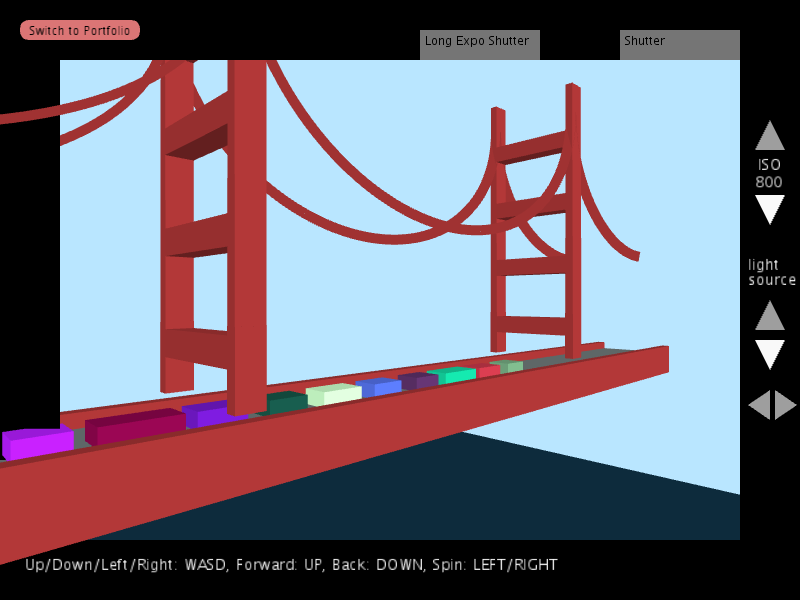
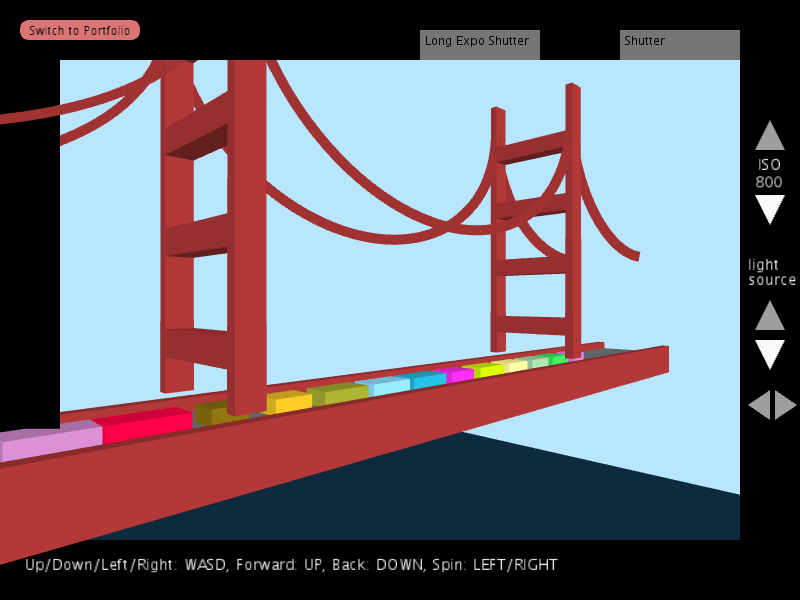
long expo words but only take 1 at a time for now hehe

Changed region(s): [[0.3125, 0.57, 0.7188, 0.69], [0.0, 0.66, 0.3125, 0.78]]

diff --git a/FinalProject/src/portfolio/Portfolio.java b/FinalProject/src/portfolio/Portfolio.java
@@ -25,45 +25,54 @@ public class Portfolio {
 		marker.background(255);
 		
 		marker.tint(255, 126); //opacity for layering
+		
+		//for some reason i need to call this method bc longExposureImages.size doesn't work
+		for (int a = 0; a < Shutter.longExpoSize(); a++) { //goes thru each arraylist in arrayList<arraylist<pimage>>
+			ArrayList<PImage> currLongExpo = longExposureImages.get(a);
+			//find out how many rows down images needs to be at
+			//4 photos per row, go to next row after
+			int f = 60; //viewfinder indent
 
-		//all hard coded for now
-		ArrayList<PImage> longExpoArray0 = longExposureImages.get(0);
-		PImage longExpoImg0 = longExpoArray0.get(0);
-		longExpoImg0 = marker.loadImage(0 + "." + 0 + ".png");
-		marker.tint(255, 126); 
-		PImage longExpoImg1 = longExpoArray0.get(1);
-		longExpoImg1 = marker.loadImage(0 + "." + 1 + ".png");
+			int d = a % 4; //remainder when divided by 4
+			int e = a-d; //c is divisible by 4
+			int yMultiple = (e/4);
+			
+			System.out.println("currLongExpo.size(): " + currLongExpo.size());
 
-		PImage longExpoImg2 = longExpoArray0.get(2);
-		longExpoImg2 = marker.loadImage(0 + "." + 2 + ".png");
+			for (int b = 0; b < currLongExpo.size(); b++) { //goes thru each pimage in the arrayList<pimage>
+				PImage longExpoImg = currLongExpo.get(b);
+				
+				longExpoImg.copy(f, f, marker.width-(2*f), marker.height-(2*f), 0, 0,  marker.width, marker.height);
 
-		//place all 3 photos at same location
-		int diviseFactor = 2;
-		marker.image(longExpoImg0, 20, 50, marker.width/diviseFactor, marker.height/diviseFactor);
-		marker.image(longExpoImg1, 20, 50, marker.width/diviseFactor, marker.height/diviseFactor);
-		marker.image(longExpoImg2, 20, 50, marker.width/diviseFactor, marker.height/diviseFactor);
+				longExpoImg = marker.loadImage(a + "." + b + ".png");
+				marker.image(longExpoImg, 20 + (marker.width/4*((a%4))), (150*yMultiple) + 50, marker.width/5, marker.height/5);
+
+			}
+		}
+
+		marker.tint(255); //undo from long expo
 
 
 		//display images in row in portfolio, commented for now to work on long expo
-//		for (int i = 0; i < images.size(); i++) {
-//
-//			PImage img = images.get(i);
-//			//images name from shutter are in format "index.png"
-//			img = marker.loadImage(i + ".png");
-//
-//			//crop image to remove viewfinder
-//			int a = 60; //viewfinder indent
-//			img.copy(a, a, marker.width-(2*a), marker.height-(2*a), 0, 0,  marker.width, marker.height);
-//
-//
-//			//find out how many rows down images needs to be at
-//			//4 photos per row, go to next row after
-//			int b = i % 4; //remainder when divided by 4
-//			int c = i-b; //c is divisible by 4
-//			int yMultiple = (c/4);
-//
-//			//marker.image(img, 20 + (marker.width/4*i), y, marker.width/5, marker.height/5);
-//			marker.image(img, 20 + (marker.width/4*((i%4))), (150*yMultiple) + 50, marker.width/5, marker.height/5);
-//		}
+		for (int i = 0; i < images.size(); i++) {
+
+			PImage img = images.get(i);
+			//images name from shutter are in format "index.png"
+			img = marker.loadImage(i + ".png");
+
+			//crop image to remove viewfinder
+			int a = 60; //viewfinder indent
+			img.copy(a, a, marker.width-(2*a), marker.height-(2*a), 0, 0,  marker.width, marker.height);
+
+
+			//find out how many rows down images needs to be at
+			//4 photos per row, go to next row after
+			int b = i % 4; //remainder when divided by 4
+			int c = i-b; //c is divisible by 4
+			int yMultiple = (c/4);
+
+			//marker.image(img, 20 + (marker.width/4*i), y, marker.width/5, marker.height/5);
+			marker.image(img, 20 + (marker.width/4*((i%4))), (150*yMultiple) + 50, marker.width/5, marker.height/5);
+		}
 	}
 }

diff --git a/FinalProject/src/worldSetting/Shutter.java b/FinalProject/src/worldSetting/Shutter.java
@@ -22,14 +22,15 @@ public class Shutter {
 
 	//each ArrayList<PImage> is 1 long exposure image
 	private static ArrayList<ArrayList<PImage>> longExposureImages;
-
-
+	private static int longExpoSize;
+	
 	/**
 	 * Initializes the list of images
 	 */
 	public Shutter(PApplet marker) {
 		images = new ArrayList<PImage>();
 		longExposureImages = new ArrayList<ArrayList<PImage>>();
+		longExpoSize = 0;
 	}
 
 	/**
@@ -57,50 +58,29 @@ public class Shutter {
 	public static void longExposureScreenshot(PApplet marker, int outerArrIndex, int innerArrIndex) {
 		try {
 			Robot robot = new Robot();
-			
-			
 			ArrayList<PImage> currLongExpo;
 			
 			//this arraylist already exists
-			if (outerArrIndex < longExposureImages.size()) {
+			if (outerArrIndex < longExpoSize) {
 				currLongExpo = longExposureImages.get(outerArrIndex);
-			} else {
+			} else { //make a new array
 				currLongExpo = new ArrayList<PImage>();
-
+				longExpoSize++;
 			}
-			
-//			int allLongExpoIndex = longExposureImages.size();			
-
+						
 			PImage shot = new PImage(robot.createScreenCapture(new Rectangle(0,0,marker.width, marker.height)));
+			//ex: 3rd photo in second arraylist of pimages (ie 2nd long expo shot) is in format "2.3.png"
 			marker.saveFrame(outerArrIndex + "." + innerArrIndex + ".png");
 			currLongExpo.add(shot);
-
-
-
-			//			long startTime = System.currentTimeMillis();
-			//long elapsedTime = System.currentTimeMillis() - startTime;
-
-			//shutter speed is 1 second
-			//TODO: make shutter speed variablized for user to change
-			//			int index = 0;
-			//			while (System.currentTimeMillis() - startTime < 1000) { 
-			//				long elapsedTime = System.currentTimeMillis() - startTime;
-			//				PImage shot = new PImage(robot.createScreenCapture(new Rectangle(0,0,marker.width, marker.height)));
-			//				marker.saveFrame(allLongExpoIndex + "." + index + ".png");
-			//				currLongExpo.add(shot);
-			//
-			//				index++;
-			//				System.out.println("curr time - start time: " +elapsedTime);
-			//			}
 
 			longExposureImages.add(currLongExpo);
 
 		} catch (AWTException e) { }
 	}
 
-	public int getOuterArrIndex() {
-		return longExposureImages.size();		
-	}
+//	public int getOuterArrIndex() {
+//		return longExposureImages.size();		
+//	}
 
 	/**
 	 * @return ArrayList<PImage> all non-long exposure images captured while the window is opened
@@ -114,5 +94,9 @@ public class Shutter {
 	 */
 	public static ArrayList<ArrayList<PImage>> getallLongExpoImages(){
 		return longExposureImages;
+	}
+	
+	public static int longExpoSize() {
+		return longExpoSize;
 	}
 }

diff --git a/FinalProject/src/worldSetting/Viewfinder.java b/FinalProject/src/worldSetting/Viewfinder.java
@@ -170,8 +170,15 @@ public class Viewfinder {
 		}
 		
 		else if (longExpoShutterButton.contains(p)) {
-//			shutter.longExposureScreenshot(marker);
-			screenshot0(marker);
+			int outerArrIndex = shutter.longExpoSize(); //for shutter to see if it needs to make a new long expo arraylist or not
+			//5 represents the number of screenshots
+			for (int i = 0; i < 5; i++) {
+				SoundPlayer.playShutterSound();
+
+				shutter.longExposureScreenshot(marker, outerArrIndex, i);
+				drawABunchOfTimes(marker); //draw in between screenshots to get long exposure effect
+
+			}
 			SoundPlayer.playShutterSound();
 		}
 		
@@ -224,37 +231,11 @@ public class Viewfinder {
 		}
 	}
 	
+	//get 3d world to redraw in between calls to screenshot to get long exposure effect
 	private void drawABunchOfTimes(DrawingSurface marker) {
-		for (int i = 0; i < 100; i ++) {
+		for (int i = 0; i < 50; i ++) {
 			marker.draw();
 		}
-	}
-	
-	private void screenshot0(DrawingSurface marker) {
-		int outerArrIndex = shutter.getOuterArrIndex();
-		drawABunchOfTimes(marker);
-
-		shutter.longExposureScreenshot(marker, outerArrIndex, 0);
-		drawABunchOfTimes(marker);
-		screenshot1(marker, outerArrIndex);
-	}
-	
-	
-	
-	private void screenshot1(DrawingSurface marker, int outerArrIndex) {
-		drawABunchOfTimes(marker);
-
-		shutter.longExposureScreenshot(marker, outerArrIndex, 1);
-		drawABunchOfTimes(marker);
-
-		screenshot2(marker, outerArrIndex);
-	}
-
-	private void screenshot2(DrawingSurface marker, int outerArrIndex) {
-		drawABunchOfTimes(marker);
-
-		shutter.longExposureScreenshot(marker, outerArrIndex, 2);
-		
 	}
 	
 	public int getISOvalue() {
